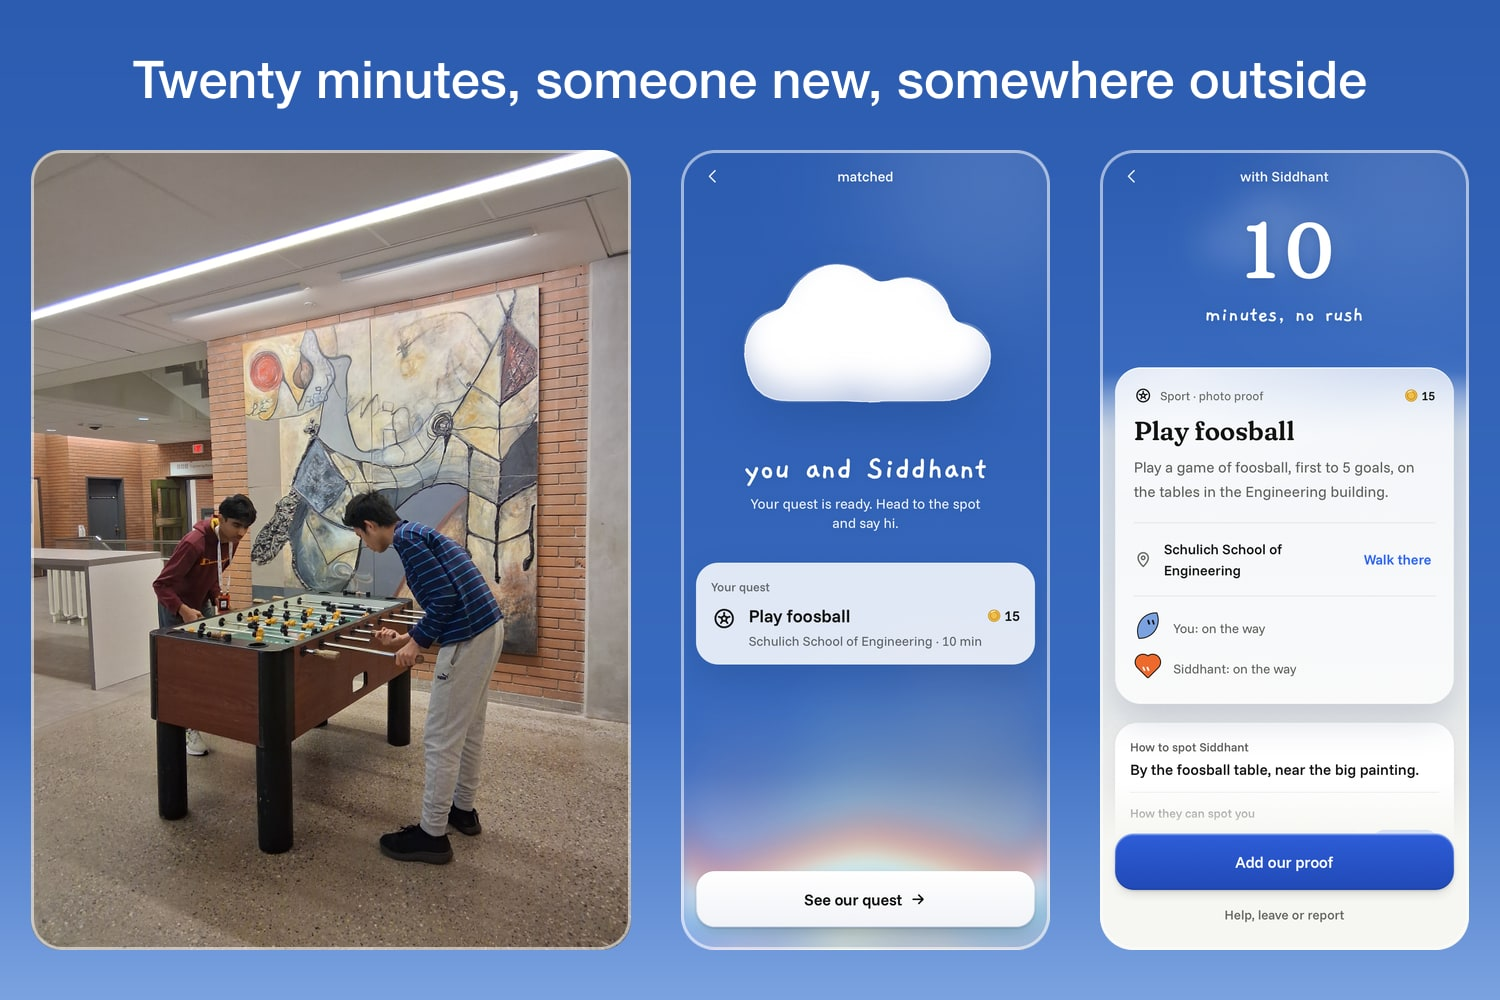
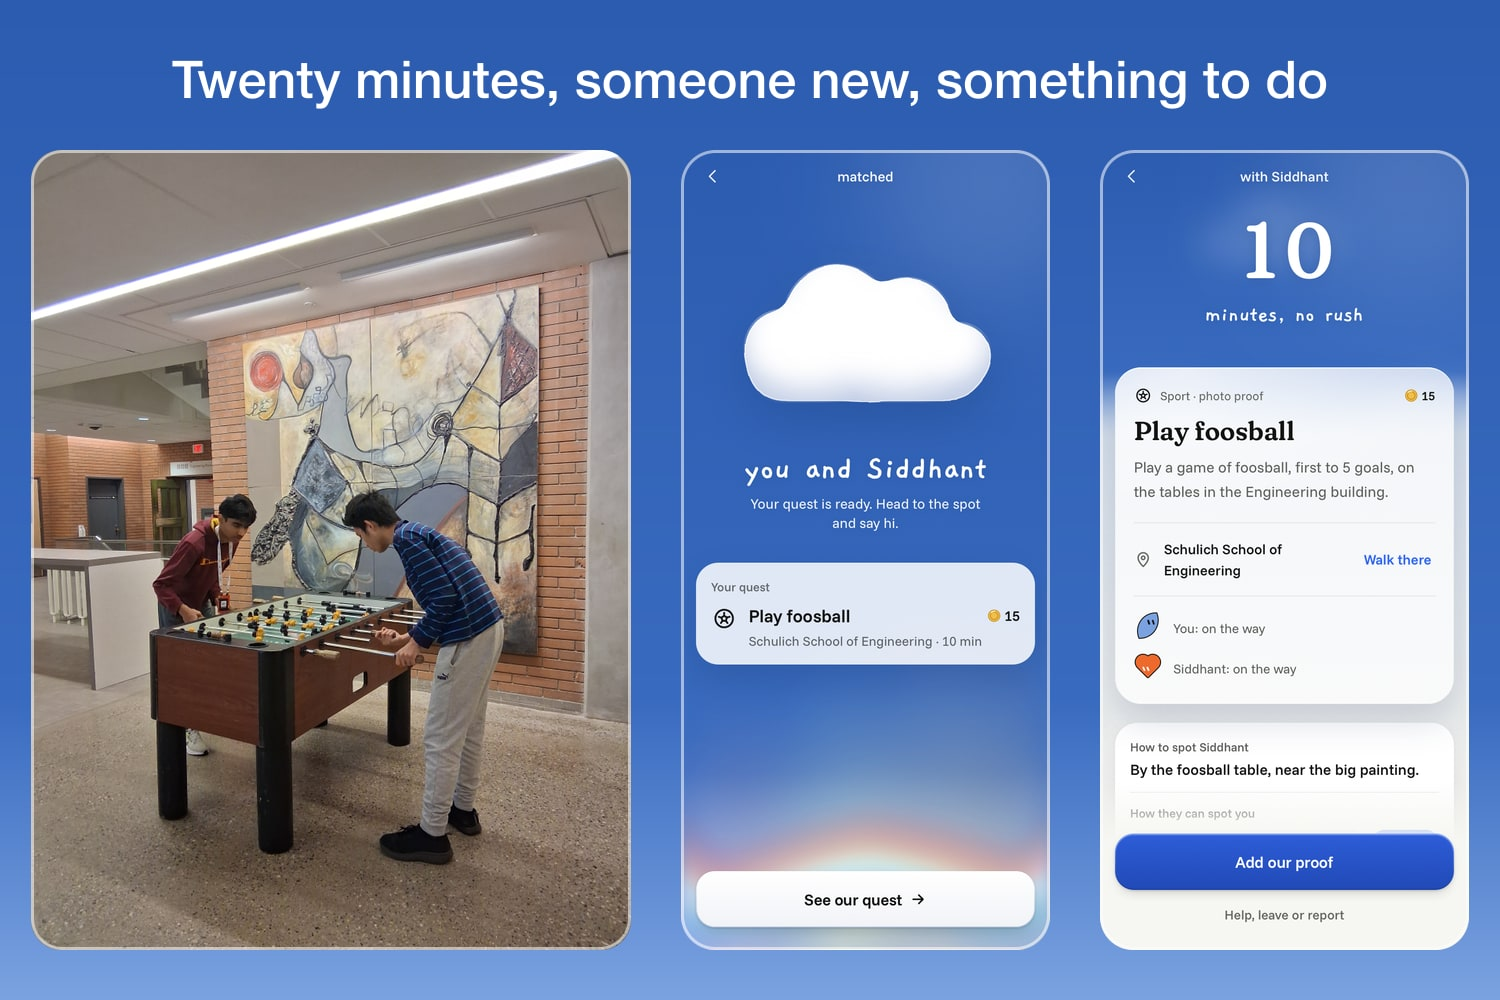
New tagline: Twenty minutes, someone new, something to do (#438)

Changed region(s): [[0.092, 0.062, 0.92, 0.124]]

diff --git a/src/features/onboarding/login-screen.tsx b/src/features/onboarding/login-screen.tsx
@@ -36,7 +36,7 @@ export function LoginScreen({ demo, returnTo }: { demo: boolean; returnTo: strin
       <div className="flex min-h-dvh flex-1 flex-col lg:mx-auto lg:grid lg:w-full lg:max-w-[1120px] lg:grid-cols-[minmax(0,5fr)_minmax(0,7fr)] lg:grid-rows-[1fr_auto_1fr] lg:gap-x-14 lg:px-10 px-5 pt-[max(44px,env(safe-area-inset-top))] pb-[max(20px,env(safe-area-inset-bottom))]">
         <motion.div className="text-center lg:col-start-1 lg:row-start-2 lg:text-left" initial={{ opacity: 0, y: 14, filter: "blur(8px)" }} animate={{ opacity: 1, y: 0, filter: "blur(0px)" }} transition={{ duration: 0.7, ease }}>
           <Hand as="h1" className="text-[64px] lg:text-[88px] leading-none font-bold text-ink">{APP_NAME.toLowerCase()}</Hand>
-          <p className="mx-auto mt-2 max-w-[26ch] text-[17px] lg:mx-0 lg:text-[20px] leading-snug text-balance text-ink-muted">Twenty minutes, someone new, somewhere outside.</p>
+          <p className="mx-auto mt-2 max-w-[26ch] text-[17px] lg:mx-0 lg:text-[20px] leading-snug text-balance text-ink-muted">Twenty minutes, someone new, something to do.</p>
         </motion.div>
 
         <div className="mt-4 lg:col-start-2 lg:row-span-3 lg:row-start-1 lg:mt-0 lg:self-center">

diff --git a/src/lib/config.ts b/src/lib/config.ts
@@ -1,6 +1,6 @@
 // Change the product name here only.
 export const APP_NAME = "Amble";
-export const APP_TAGLINE = "twenty minutes, someone new, somewhere outside";
+export const APP_TAGLINE = "twenty minutes, someone new, something to do";
 
 // System 1 quests are short by design.
 export const QUEST_MINUTES = 20;

diff --git a/README.md b/README.md
@@ -4,7 +4,7 @@
 
 <h1 align="center">Amble</h1>
 
-<p align="center">Twenty minutes, someone new, somewhere outside.</p>
+<p align="center">Twenty minutes, someone new, something to do.</p>
 
 <p align="center">
   <a href="https://amble.health">amble.health</a> ·
@@ -17,7 +17,7 @@
   <img src="docs/images/app-demo-aaron-and-siddhant.gif" alt="Amble on a phone: Aaron picks a quest and gets matched with Siddhant, and a real photo of the game gets checked: that counts, plus 15 coins" height="480">
 </p>
 
-Amble gives strangers short, fun challenges to do together outside. When you have some time, you tap "I'm free", get paired with someone nearby, and meet them at a public spot to do the challenge. We wrote all of them by hand for places Calgarians know, like the +15, Chinatown, Nose Hill and the Calgary Tower. One of ours, at the Foothills Athletic Park: "Film each other running 100 m backwards on the track, then play the videos in reverse to see whose run looks more normal."
+Amble gives strangers short, fun challenges to do together. When you have some time, you tap "I'm free", get paired with someone nearby, and meet them at a public spot to do the challenge. We wrote all of them by hand for places Calgarians know, like the +15, Chinatown, Nose Hill and the Calgary Tower. One of ours, at the Foothills Athletic Park: "Film each other running 100 m backwards on the track, then play the videos in reverse to see whose run looks more normal."
 
 You can also start a crew with your friends and compete with other crews to claim spots around campus.
 

diff --git a/docs/DEVPOST.md b/docs/DEVPOST.md
@@ -15,7 +15,7 @@ A starting point for the Devpost submission. The friends and demo area owns the 
 
 ## Tagline
 
-Twenty minutes, someone new, somewhere outside.
+Twenty minutes, someone new, something to do.
 
 ## Description
 
